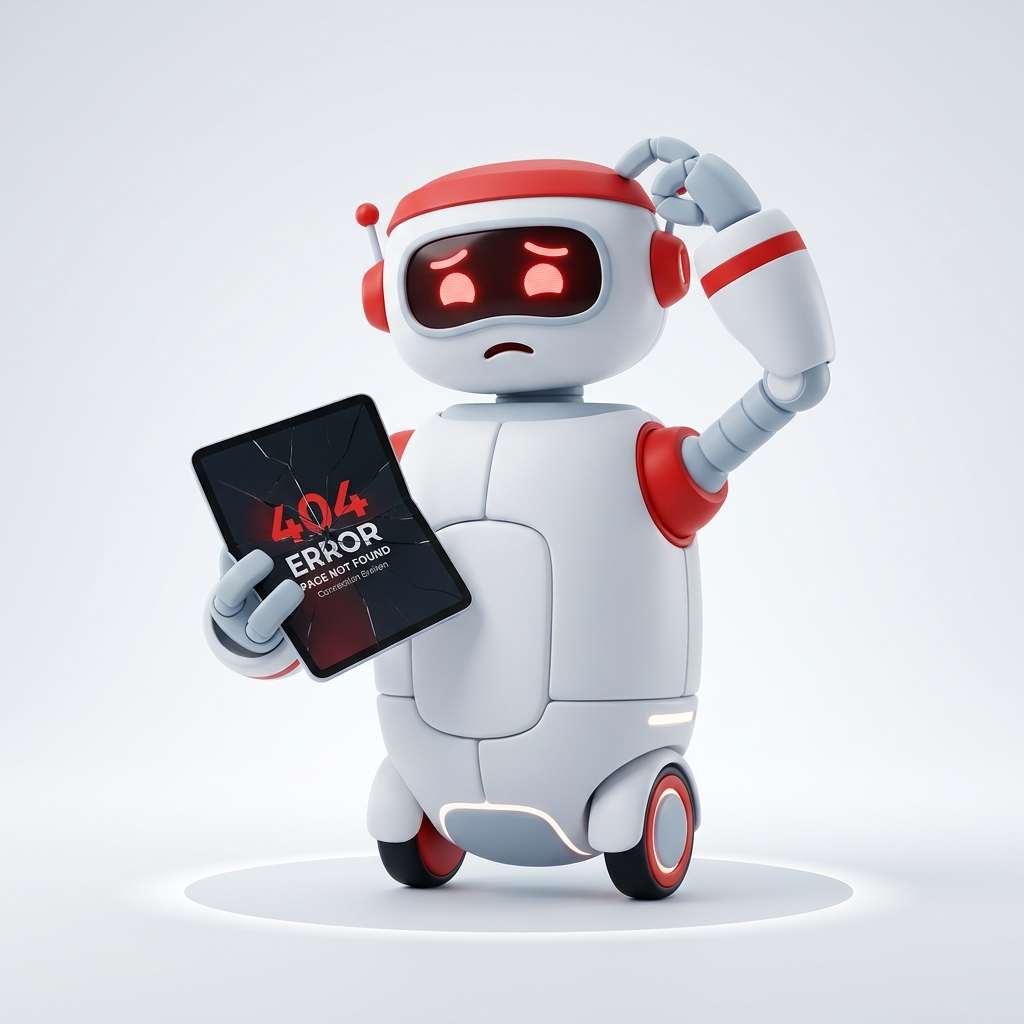
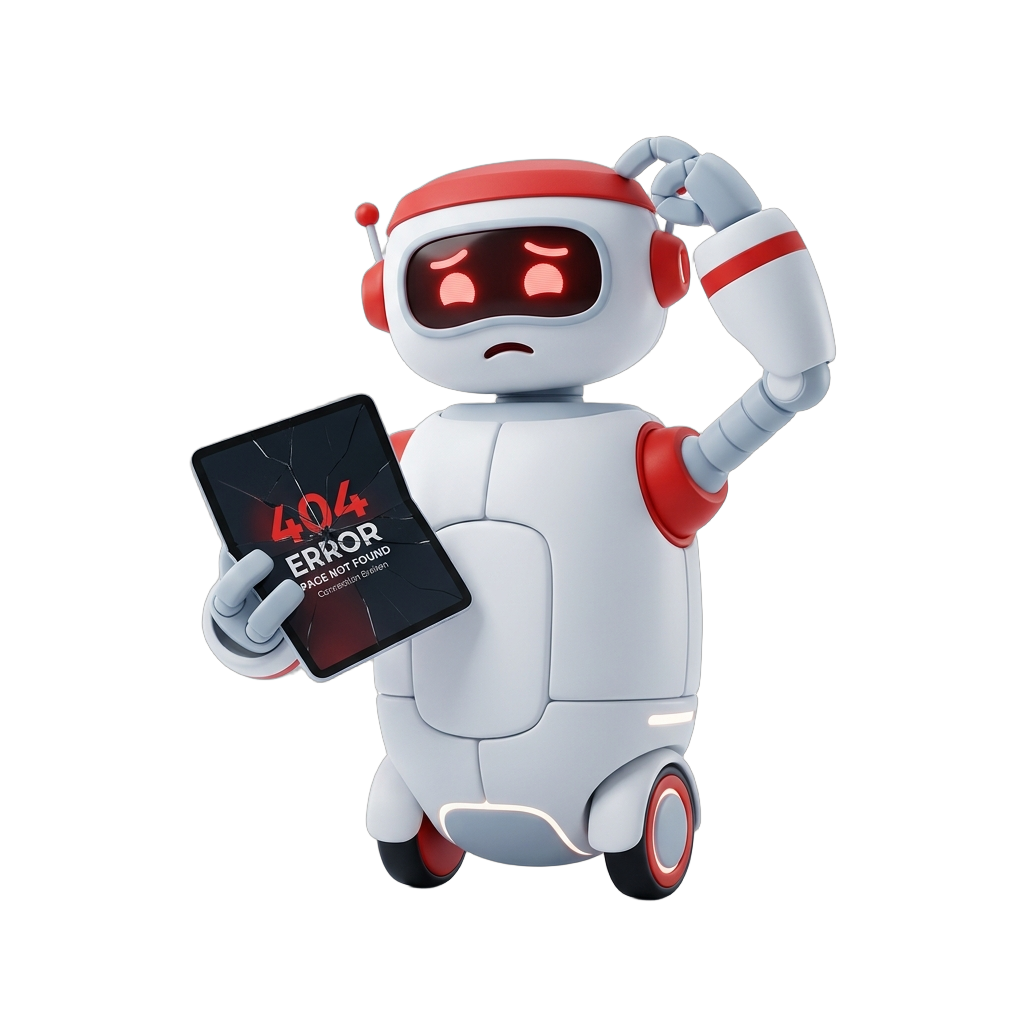
for testing

diff --git a/views/errors/503.view.php b/views/errors/503.view.php
@@ -11,7 +11,7 @@ $homeLink = ($role !== 'guest') ? url('dashboard') : url('login');
 <head>
     <meta charset="UTF-8">
     <meta name="viewport" content="width=device-width, initial-scale=1.0">
-    <title>404 - Page Not Found | Citilife System</title>
+    <title>503 - Service Temporarily Unavailable | Citilife System</title>
     <link rel="icon" type="image/png" href="<?= function_exists('getSystemLogoUrl') ? getSystemLogoUrl() : url('public/assets/img/logo/citilife-logo.png') ?>">
     <link rel="stylesheet" href="<?= url('tailwind/src/output.css') ?>">
     <style>
@@ -29,10 +29,10 @@ $homeLink = ($role !== 'guest') ? url('dashboard') : url('login');
             z-index: -1;
             background-color: #fdfdfd;
             background-image:
-                radial-gradient(at 0% 0%, rgba(220, 38, 38, 0.05) 0px, transparent 50%),
-                radial-gradient(at 100% 0%, rgba(59, 130, 246, 0.05) 0px, transparent 50%),
-                radial-gradient(at 100% 100%, rgba(220, 38, 38, 0.05) 0px, transparent 50%),
-                radial-gradient(at 0% 100%, rgba(59, 130, 246, 0.05) 0px, transparent 50%);
+                radial-gradient(at 0% 0%, rgba(37, 99, 235, 0.06) 0px, transparent 50%),
+                radial-gradient(at 100% 0%, rgba(79, 70, 229, 0.05) 0px, transparent 50%),
+                radial-gradient(at 100% 100%, rgba(37, 99, 235, 0.05) 0px, transparent 50%),
+                radial-gradient(at 0% 100%, rgba(30, 41, 59, 0.05) 0px, transparent 50%);
         }
 
         .mascot-container {
@@ -61,23 +61,23 @@ $homeLink = ($role !== 'guest') ? url('dashboard') : url('login');
         .error-code {
             font-size: clamp(5.5rem, 15vw, 7.5rem);
             line-height: 0.9;
-            background: linear-gradient(180deg, #111827 30%, rgba(17, 24, 39, 0.1) 100%);
+            background: linear-gradient(180deg, #2563eb 30%, rgba(37, 99, 235, 0.15) 100%);
             -webkit-background-clip: text;
             -webkit-text-fill-color: transparent;
             font-weight: 800;
             letter-spacing: -0.05em;
         }
 
-        .btn-premium {
-            background: #dc2626;
-            box-shadow: 0 10px 25px -5px rgba(220, 38, 38, 0.4);
+        .btn-primary-blue {
+            background: #2563eb;
+            box-shadow: 0 10px 25px -5px rgba(37, 99, 235, 0.4);
             transition: all 0.3s cubic-bezier(0.4, 0, 0.2, 1);
         }
 
-        .btn-premium:hover {
+        .btn-primary-blue:hover {
             transform: translateY(-2px);
-            box-shadow: 0 20px 35px -5px rgba(220, 38, 38, 0.5);
-            background: #b91c1c;
+            box-shadow: 0 20px 35px -5px rgba(37, 99, 235, 0.5);
+            background: #1d4ed8;
         }
     </style>
 </head>
@@ -87,20 +87,28 @@ $homeLink = ($role !== 'guest') ? url('dashboard') : url('login');
 
     <div class="max-w-xl w-full flex flex-col items-center">
         <div class="mascot-container mb-2">
-            <img src="<?= url('public/assets/img/errors/404_illustration.png?v=' . filemtime(__DIR__ . '/../../public/assets/img/errors/404_illustration.png')) ?>" alt="404" class="mascot-img">
+            <img src="<?= url('public/assets/img/errors/503_illustration.png?v=' . filemtime(__DIR__ . '/../../public/assets/img/errors/503_illustration.png')) ?>" alt="503 System Under Maintenance" class="mascot-img">
         </div>
 
         <div class="relative z-10 w-full">
-            <h1 class="error-code mb-2">404</h1>
-            <h2 class="text-2xl sm:text-3xl font-extrabold text-gray-900 mb-2 tracking-tight">Page Not Found</h2>
-            <p class="text-base text-gray-500 mb-6 max-w-md mx-auto leading-relaxed">
-                Oops! The page you are looking for doesn't exist.
+            <h1 class="error-code mb-2">503</h1>
+            <h2 class="text-2xl sm:text-3xl font-extrabold text-gray-900 mb-2 tracking-tight">System Under Maintenance</h2>
+            <p class="text-base text-gray-600 mb-6 max-w-md mx-auto leading-relaxed">
+                Our diagnostic database service is currently undergoing routine maintenance or updates. Normal services will resume shortly.
             </p>
 
-            <div class="flex items-center justify-center">
-                <button onclick="window.history.back()" class="btn-premium px-8 py-4 text-white font-bold rounded-2xl flex items-center justify-center text-sm">
-                    Go Back
+            <div class="flex flex-col sm:flex-row items-stretch sm:items-center justify-center gap-3 max-w-md mx-auto">
+                <button type="button" onclick="window.location.reload()"
+                    class="btn-primary-blue flex-1 w-full h-12 px-5 text-white font-bold rounded-2xl flex items-center justify-center gap-2 text-sm whitespace-nowrap cursor-pointer">
+                    <svg xmlns="http://www.w3.org/2000/svg" class="w-4 h-4 shrink-0 animate-spin-hover" viewBox="0 0 24 24" fill="none" stroke="currentColor" stroke-width="2">
+                        <path d="M21.5 2v6h-6M21.34 15.57a10 10 0 1 1-.57-8.38l5.67-5.67"/>
+                    </svg>
+                    Refresh Page
                 </button>
+                <a href="<?= $homeLink ?>"
+                    class="flex-1 w-full h-12 px-5 bg-white border border-gray-200 hover:border-gray-300 text-gray-700 font-bold rounded-2xl transition-all flex items-center justify-center gap-2 text-sm whitespace-nowrap shadow-xs">
+                    Return to Login
+                </a>
             </div>
         </div>
 

diff --git a/views/errors/403.view.php b/views/errors/403.view.php
@@ -11,7 +11,7 @@ $homeLink = ($role !== 'guest') ? url('dashboard') : url('login');
 <head>
     <meta charset="UTF-8">
     <meta name="viewport" content="width=device-width, initial-scale=1.0">
-    <title>404 - Page Not Found | Citilife System</title>
+    <title>403 - Access Denied | Citilife System</title>
     <link rel="icon" type="image/png" href="<?= function_exists('getSystemLogoUrl') ? getSystemLogoUrl() : url('public/assets/img/logo/citilife-logo.png') ?>">
     <link rel="stylesheet" href="<?= url('tailwind/src/output.css') ?>">
     <style>
@@ -29,10 +29,10 @@ $homeLink = ($role !== 'guest') ? url('dashboard') : url('login');
             z-index: -1;
             background-color: #fdfdfd;
             background-image:
-                radial-gradient(at 0% 0%, rgba(220, 38, 38, 0.05) 0px, transparent 50%),
-                radial-gradient(at 100% 0%, rgba(59, 130, 246, 0.05) 0px, transparent 50%),
+                radial-gradient(at 0% 0%, rgba(220, 38, 38, 0.06) 0px, transparent 50%),
+                radial-gradient(at 100% 0%, rgba(217, 119, 6, 0.05) 0px, transparent 50%),
                 radial-gradient(at 100% 100%, rgba(220, 38, 38, 0.05) 0px, transparent 50%),
-                radial-gradient(at 0% 100%, rgba(59, 130, 246, 0.05) 0px, transparent 50%);
+                radial-gradient(at 0% 100%, rgba(30, 41, 59, 0.05) 0px, transparent 50%);
         }
 
         .mascot-container {
@@ -61,7 +61,7 @@ $homeLink = ($role !== 'guest') ? url('dashboard') : url('login');
         .error-code {
             font-size: clamp(5.5rem, 15vw, 7.5rem);
             line-height: 0.9;
-            background: linear-gradient(180deg, #111827 30%, rgba(17, 24, 39, 0.1) 100%);
+            background: linear-gradient(180deg, #dc2626 30%, rgba(185, 28, 28, 0.15) 100%);
             -webkit-background-clip: text;
             -webkit-text-fill-color: transparent;
             font-weight: 800;
@@ -87,18 +87,34 @@ $homeLink = ($role !== 'guest') ? url('dashboard') : url('login');
 
     <div class="max-w-xl w-full flex flex-col items-center">
         <div class="mascot-container mb-2">
-            <img src="<?= url('public/assets/img/errors/404_illustration.png?v=' . filemtime(__DIR__ . '/../../public/assets/img/errors/404_illustration.png')) ?>" alt="404" class="mascot-img">
+            <img src="<?= url('public/assets/img/errors/403_illustration.png?v=' . filemtime(__DIR__ . '/../../public/assets/img/errors/403_illustration.png')) ?>" alt="403 Access Denied" class="mascot-img">
         </div>
 
         <div class="relative z-10 w-full">
-            <h1 class="error-code mb-2">404</h1>
-            <h2 class="text-2xl sm:text-3xl font-extrabold text-gray-900 mb-2 tracking-tight">Page Not Found</h2>
-            <p class="text-base text-gray-500 mb-6 max-w-md mx-auto leading-relaxed">
-                Oops! The page you are looking for doesn't exist.
+            <h1 class="error-code mb-2">403</h1>
+            <h2 class="text-2xl sm:text-3xl font-extrabold text-gray-900 mb-2 tracking-tight">Access Denied</h2>
+            <p class="text-base text-gray-600 mb-3 max-w-md mx-auto leading-relaxed">
+                You do not have permission to view this medical record or page.
             </p>
+            <div class="inline-flex items-center gap-2 px-3.5 py-1.5 rounded-full bg-red-50 border border-red-200 text-red-700 text-xs font-semibold mb-6 shadow-xs">
+                <svg xmlns="http://www.w3.org/2000/svg" class="w-3.5 h-3.5 text-red-600" viewBox="0 0 24 24" fill="none" stroke="currentColor" stroke-width="2">
+                    <circle cx="12" cy="12" r="10"></circle>
+                    <line x1="12" y1="8" x2="12" y2="12"></line>
+                    <line x1="12" y1="16" x2="12.01" y2="16"></line>
+                </svg>
+                Protected under the Philippine Data Privacy Act of 2012
+            </div>
 
-            <div class="flex items-center justify-center">
-                <button onclick="window.history.back()" class="btn-premium px-8 py-4 text-white font-bold rounded-2xl flex items-center justify-center text-sm">
+            <div class="flex flex-col sm:flex-row items-stretch sm:items-center justify-center gap-3 max-w-md mx-auto">
+                <a href="<?= $homeLink ?>" class="btn-premium flex-1 w-full h-12 px-5 text-white font-bold rounded-2xl flex items-center justify-center gap-2 text-sm whitespace-nowrap">
+                    <svg xmlns="http://www.w3.org/2000/svg" class="w-4 h-4 shrink-0" viewBox="0 0 24 24" fill="none" stroke="currentColor" stroke-width="2">
+                        <path d="m3 9 9-7 9 7v11a2 2 0 0 1-2 2H5a2 2 0 0 1-2-2z"></path>
+                        <polyline points="9 22 9 12 15 12 15 22"></polyline>
+                    </svg>
+                    Return to Dashboard
+                </a>
+                <button type="button" onclick="if(window.history.length > 1) { window.history.back(); } else { window.location.href='<?= $homeLink ?>'; }"
+                    class="flex-1 w-full h-12 px-5 bg-white border border-gray-200 hover:border-gray-300 text-gray-700 font-bold rounded-2xl transition-all flex items-center justify-center gap-2 text-sm whitespace-nowrap shadow-xs cursor-pointer">
                     Go Back
                 </button>
             </div>

diff --git a/views/errors/500.view.php b/views/errors/500.view.php
@@ -3,7 +3,7 @@ if (session_status() === PHP_SESSION_NONE) {
     session_start();
 }
 // Always redirect to login page, logout first for security
-$homeLink = "/" . PROJECT_DIR . "/logout";
+$homeLink = url('logout');
 ?>
 <!DOCTYPE html>
 <html lang="en">
@@ -12,8 +12,8 @@ $homeLink = "/" . PROJECT_DIR . "/logout";
     <meta charset="UTF-8">
     <meta name="viewport" content="width=device-width, initial-scale=1.0">
     <title>500 - Server Error | Citilife System</title>
-    <link rel="icon" type="image/png" href="<?= function_exists('getSystemLogoUrl') ? getSystemLogoUrl() : ('/' . PROJECT_DIR . '/public/assets/img/logo/citilife-logo.png') ?>">
-    <link rel="stylesheet" href="<?= PROJECT_DIR ? '/' . PROJECT_DIR . '/' : '/' ?>tailwind/src/output.css">
+    <link rel="icon" type="image/png" href="<?= function_exists('getSystemLogoUrl') ? getSystemLogoUrl() : url('public/assets/img/logo/citilife-logo.png') ?>">
+    <link rel="stylesheet" href="<?= url('tailwind/src/output.css') ?>">
     <style>
         @import url('https://fonts.googleapis.com/css2?family=Outfit:wght@300;400;600;800&display=swap');
 
@@ -45,10 +45,8 @@ $homeLink = "/" . PROJECT_DIR . "/logout";
         .mascot-img {
             width: 100%;
             height: auto;
-            filter: drop-shadow(0 20px 30px rgba(0, 0, 0, 0.05));
+            filter: drop-shadow(0 15px 25px rgba(0, 0, 0, 0.07));
             animation: float 6s ease-in-out infinite;
-            mask-image: radial-gradient(circle, black 40%, transparent 80%);
-            -webkit-mask-image: radial-gradient(circle, black 40%, transparent 80%);
         }
 
         @keyframes float {
@@ -92,21 +90,20 @@ $homeLink = "/" . PROJECT_DIR . "/logout";
 
     <div class="max-w-xl w-full flex flex-col items-center">
         <div class="mascot-container mb-2">
-            <img src="<?= PROJECT_DIR ? '/' . PROJECT_DIR . '/' : '/' ?>public/assets/img/errors/500_illustrations.png" alt="500" class="mascot-img">
+            <img src="<?= url('public/assets/img/errors/500_illustrations.png?v=' . filemtime(__DIR__ . '/../../public/assets/img/errors/500_illustrations.png')) ?>" alt="500" class="mascot-img">
         </div>
 
         <div class="relative z-10 w-full">
             <h1 class="error-code mb-2">500</h1>
-            <h2 class="text-2xl sm:text-3xl font-extrabold text-gray-900 mb-2 tracking-tight">System Under Maintenance.
-            </h2>
+            <h2 class="text-2xl sm:text-3xl font-extrabold text-gray-900 mb-2 tracking-tight">Internal Server Error</h2>
             <p class="text-base text-gray-500 mb-6 max-w-md mx-auto leading-relaxed">
-                The system encountered an unexpected issue. Our technical team is currently working on it. We apologize for the inconvenience!
+                Something went wrong while processing your request on our server. Our technical team has been notified. Please try refreshing or return to the main portal.
             </p>
 
-            <div class="flex flex-col sm:flex-row items-center justify-center gap-3 max-w-md mx-auto">
+            <div class="flex flex-col sm:flex-row items-stretch sm:items-center justify-center gap-3 max-w-md mx-auto">
                 <a href="<?= $_SERVER['REQUEST_URI'] ?>"
-                    class="bg-red-600 w-full px-8 py-4 text-white font-bold rounded-2xl flex items-center justify-center gap-2 text-sm">
-                    <svg xmlns="http://www.w3.org/2000/svg" class="h-4 w-4" fill="none" viewBox="0 0 24 24"
+                    class="bg-red-600 hover:bg-red-700 flex-1 w-full h-12 px-5 text-white font-bold rounded-2xl flex items-center justify-center gap-2 text-sm whitespace-nowrap shadow-md">
+                    <svg xmlns="http://www.w3.org/2000/svg" class="h-4 w-4 shrink-0" fill="none" viewBox="0 0 24 24"
                         stroke="currentColor">
                         <path stroke-linecap="round" stroke-linejoin="round" stroke-width="2"
                             d="M4 4v5h.582m15.356 2A8.001 8.001 0 004.582 9m0 0H9m11 11v-5h-.581m0 0a8.003 8.003 0 01-15.357-2m15.357 2H15" />
@@ -114,7 +111,7 @@ $homeLink = "/" . PROJECT_DIR . "/logout";
                     Refresh the Page
                 </a>
                 <a href="<?= $homeLink ?>"
-                    class="w-full px-8 py-4 bg-white border border-gray-200 hover:border-gray-300 text-gray-700 font-bold rounded-2xl transition-all flex items-center justify-center gap-2 text-sm">
+                    class="flex-1 w-full h-12 px-5 bg-white border border-gray-200 hover:border-gray-300 text-gray-700 font-bold rounded-2xl transition-all flex items-center justify-center gap-2 text-sm whitespace-nowrap shadow-xs">
                     Go Back
                 </a>
             </div>

diff --git a/app/Controllers/radtech/PatientListsController.php b/app/Controllers/radtech/PatientListsController.php
@@ -82,6 +82,14 @@ if (isset($_GET['action'])) {
                     }
                 }
 
+                        // Fetch active dispute if any
+                        $activeDispute = null;
+                        if (file_exists(__DIR__ . '/../../Models/ResultDisputeModel.php')) {
+                            require_once __DIR__ . '/../../Models/ResultDisputeModel.php';
+                            $disputeMdl = new \ResultDisputeModel($pdo);
+                            $activeDispute = $disputeMdl->getActiveDisputeByCase($id);
+                        }
+
                         // Resolve all active disputes for this case
                         $pdo->prepare("UPDATE result_disputes SET status = 'Resolved', resolved_by = ?, resolved_at = NOW(), resolution_notes = COALESCE(resolution_notes, 'Amended report released by RadTech.') WHERE case_id = ? AND status NOT IN ('Resolved', 'Rejected')")
                             ->execute([$currentUserId, $id]);
@@ -186,6 +194,14 @@ if (isset($_GET['action'])) {
                     }
 
                     if ($caseData && $caseData['released'] == 0) {
+                        // Fetch active dispute if any
+                        $activeDispute = null;
+                        if (file_exists(__DIR__ . '/../../Models/ResultDisputeModel.php')) {
+                            require_once __DIR__ . '/../../Models/ResultDisputeModel.php';
+                            $disputeMdl = new \ResultDisputeModel($pdo);
+                            $activeDispute = $disputeMdl->getActiveDisputeByCase($id);
+                        }
+
                         // Resolve all active disputes for this case
                         $pdo->prepare("UPDATE result_disputes SET status = 'Resolved', resolved_by = ?, resolved_at = NOW(), resolution_notes = COALESCE(resolution_notes, 'Amended report released by RadTech.') WHERE case_id = ? AND status NOT IN ('Resolved', 'Rejected')")
                             ->execute([$currentUserId, $id]);

diff --git a/routes.php b/routes.php
@@ -145,7 +145,7 @@ $router->get('/app/api/search_branch_cases.php', 'app/Api/search_branch_cases.ph
 $router->post('/app/api/search_branch_cases.php', 'app/Api/search_branch_cases.php');
 $router->get('/branch-dashboard', 'auth/branch-dashboard.php');
 $router->get('/patient-dashboard', 'auth/patient-dashboard.php');
-$router->get('/image', 'ImageController@serve');
+$router->get('/image', 'App\Controllers\ImageController@view', ['auth']);
 $router->get('/test-env', function() {
     $config_path = __DIR__ . '/config/smtp.php';
     $config = require $config_path;
@@ -156,7 +156,8 @@ $router->get('/test-env', function() {
 });
 $router->get('/test-email', 'app/Api/test_email.php');
 
-$router->get('/radtech/patient-registration', 'radtech/PatientRegistrationController@index');
+$router->get('/radtech/patient-registration', 'App\Controllers\radtech\PatientRegistrationController@handle', ['auth']);
+$router->post('/radtech/patient-registration', 'App\Controllers\radtech\PatientRegistrationController@handle', ['auth']);
 $router->post('/radtech/re-edit-case', 'App\Controllers\radtech\ReEditController@handle', ['auth']);
 $router->post('/app/api/re_edit_case.php', 'App\Controllers\radtech\ReEditController@handle', ['auth']);
 $router->get('/app/api/messages.php', 'app/Api/messages.php');
@@ -246,6 +247,12 @@ $router->get('/tailwind/src/output.css', function() {
         echo "CSS not found";
     }
 });
+
+// Test / Preview Error Pages
+$router->get('/test-error/403', function() use ($router) { $router->error(403); });
+$router->get('/test-error/404', function() use ($router) { $router->error(404); });
+$router->get('/test-error/500', function() use ($router) { $router->error(500); });
+$router->get('/test-error/503', function() use ($router) { $router->error(503); });
 
 
 

diff --git a/public/index.php b/public/index.php
@@ -59,7 +59,14 @@ try {
         $pdo->prepare("UPDATE users SET last_activity = NOW() WHERE id = ?")->execute([$_SESSION['user_id']]);
     }
 } catch (Exception $e) {
-    die("Database initialization failed: " . $e->getMessage());
+    error_log("Database initialization failed: " . $e->getMessage());
+    http_response_code(503);
+    if (file_exists(basePath('views/errors/503.view.php'))) {
+        loadView('errors/503');
+    } else {
+        die("Service temporarily unavailable. Please try again shortly.");
+    }
+    exit;
 }
 
 // 7. Load Router and routes

diff --git a/app/Controllers/radtech/PatientDetailsController.php b/app/Controllers/radtech/PatientDetailsController.php
@@ -110,6 +110,7 @@ class PatientDetailsController
                     }
 
                     // Check if case has an active dispute and handle status transition
+                    $activeDispute = null;
                     if (file_exists(__DIR__ . '/../../Models/ResultDisputeModel.php')) {
                         require_once __DIR__ . '/../../Models/ResultDisputeModel.php';
                         $disputeMdl = new \ResultDisputeModel($pdo);

diff --git a/views/pages/radtech/patient-details.view.php b/views/pages/radtech/patient-details.view.php
@@ -2289,8 +2289,8 @@ $catBadgeLabel = match ($dCategory) {
             }
         });
     })();
-</script>
 
+    document.addEventListener('DOMContentLoaded', function () {
         // Smart return to originating table (Patient Error Reports, Patient Queue, Report Ready, Dashboard, etc.)
         const backBtn = document.getElementById('patient-details-back-btn');
         if (backBtn) {

diff --git a/Framework/Router.php b/Framework/Router.php
@@ -147,7 +147,12 @@ class Router
     public function error($httpCode = 404)
     {
         http_response_code($httpCode);
-        loadView("errors/{$httpCode}");
+        if (file_exists(basePath("views/errors/{$httpCode}.view.php"))) {
+            loadView("errors/{$httpCode}");
+        } else {
+            loadView("errors/404");
+        }
+        exit;
     }
 }
 

diff --git a/app/Controllers/PageController.php b/app/Controllers/PageController.php
@@ -161,7 +161,8 @@ class PageController
                 'accept-privacy'
             ];
             if (!in_array($page, $patientAllowedPages, true)) {
-                redirect(url('dashboard?error=unauthorized'));
+                $router = new \Framework\Router();
+                $router->error(403);
             }
         }
 

diff --git a/app/Controllers/ImageController.php b/app/Controllers/ImageController.php
@@ -9,6 +9,11 @@ class ImageController
     /**
      * Handles secure viewing of uploaded images
      */
+    public function serve()
+    {
+        return $this->view();
+    }
+
     public function view()
     {
         // Must be logged in (also handled by 'auth' middleware)
